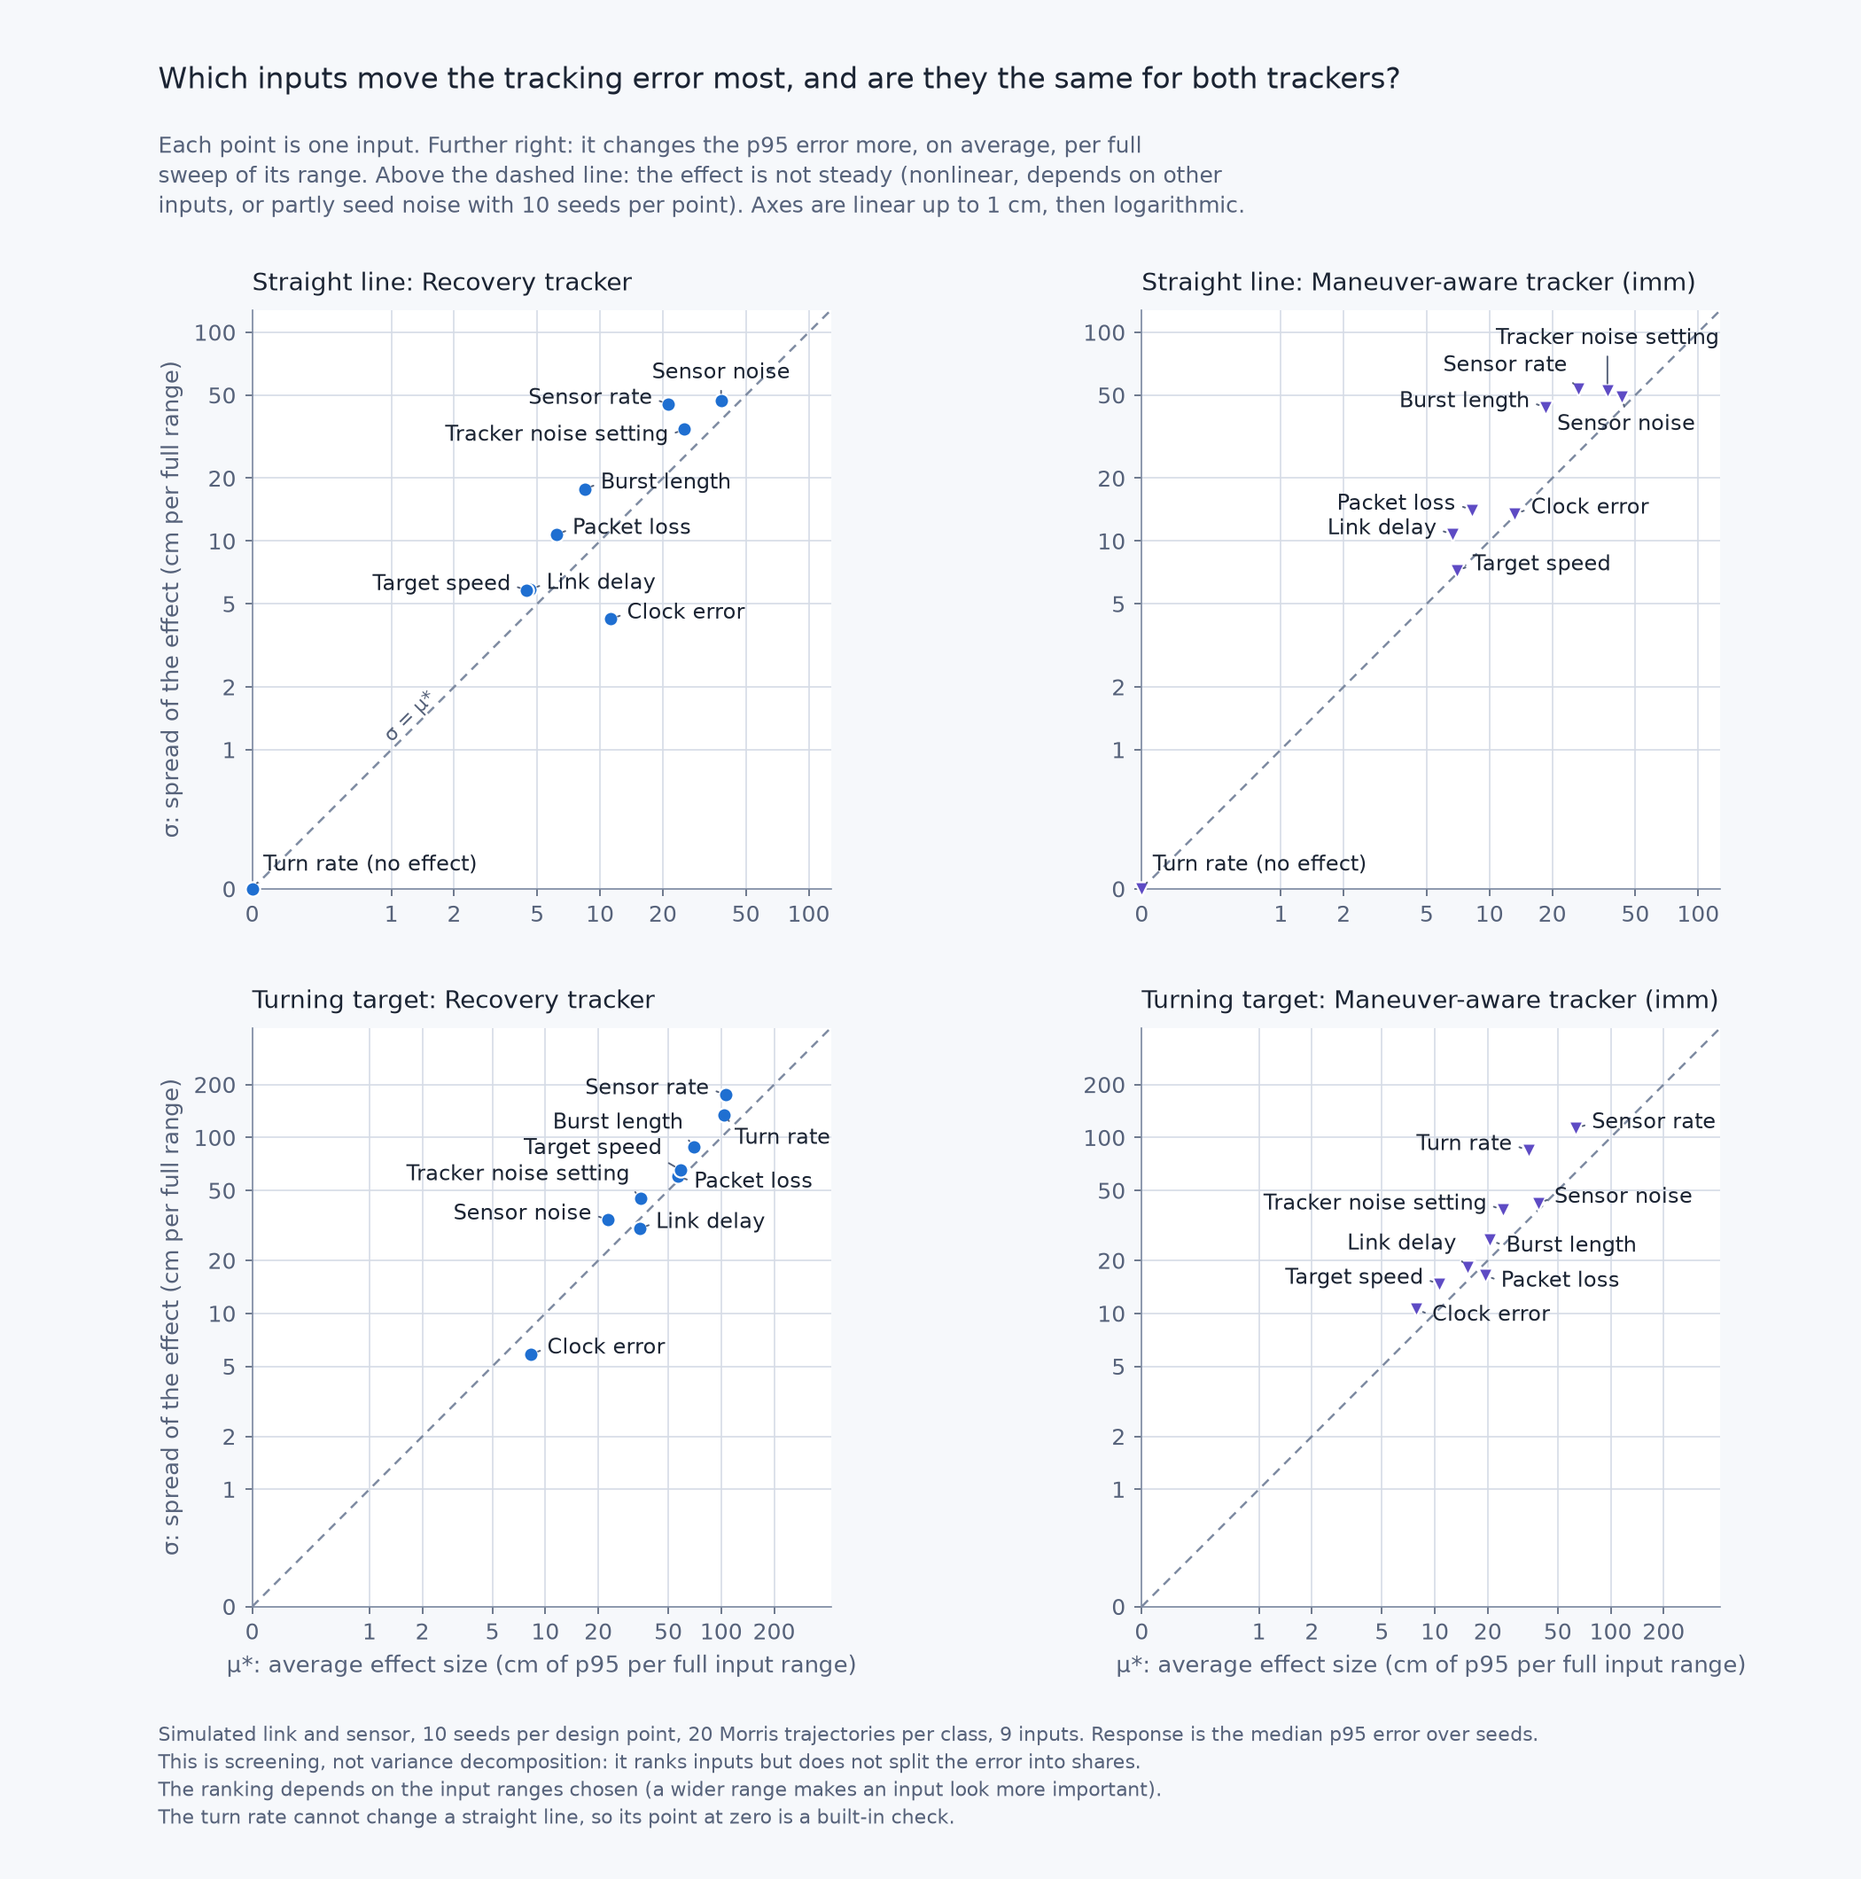
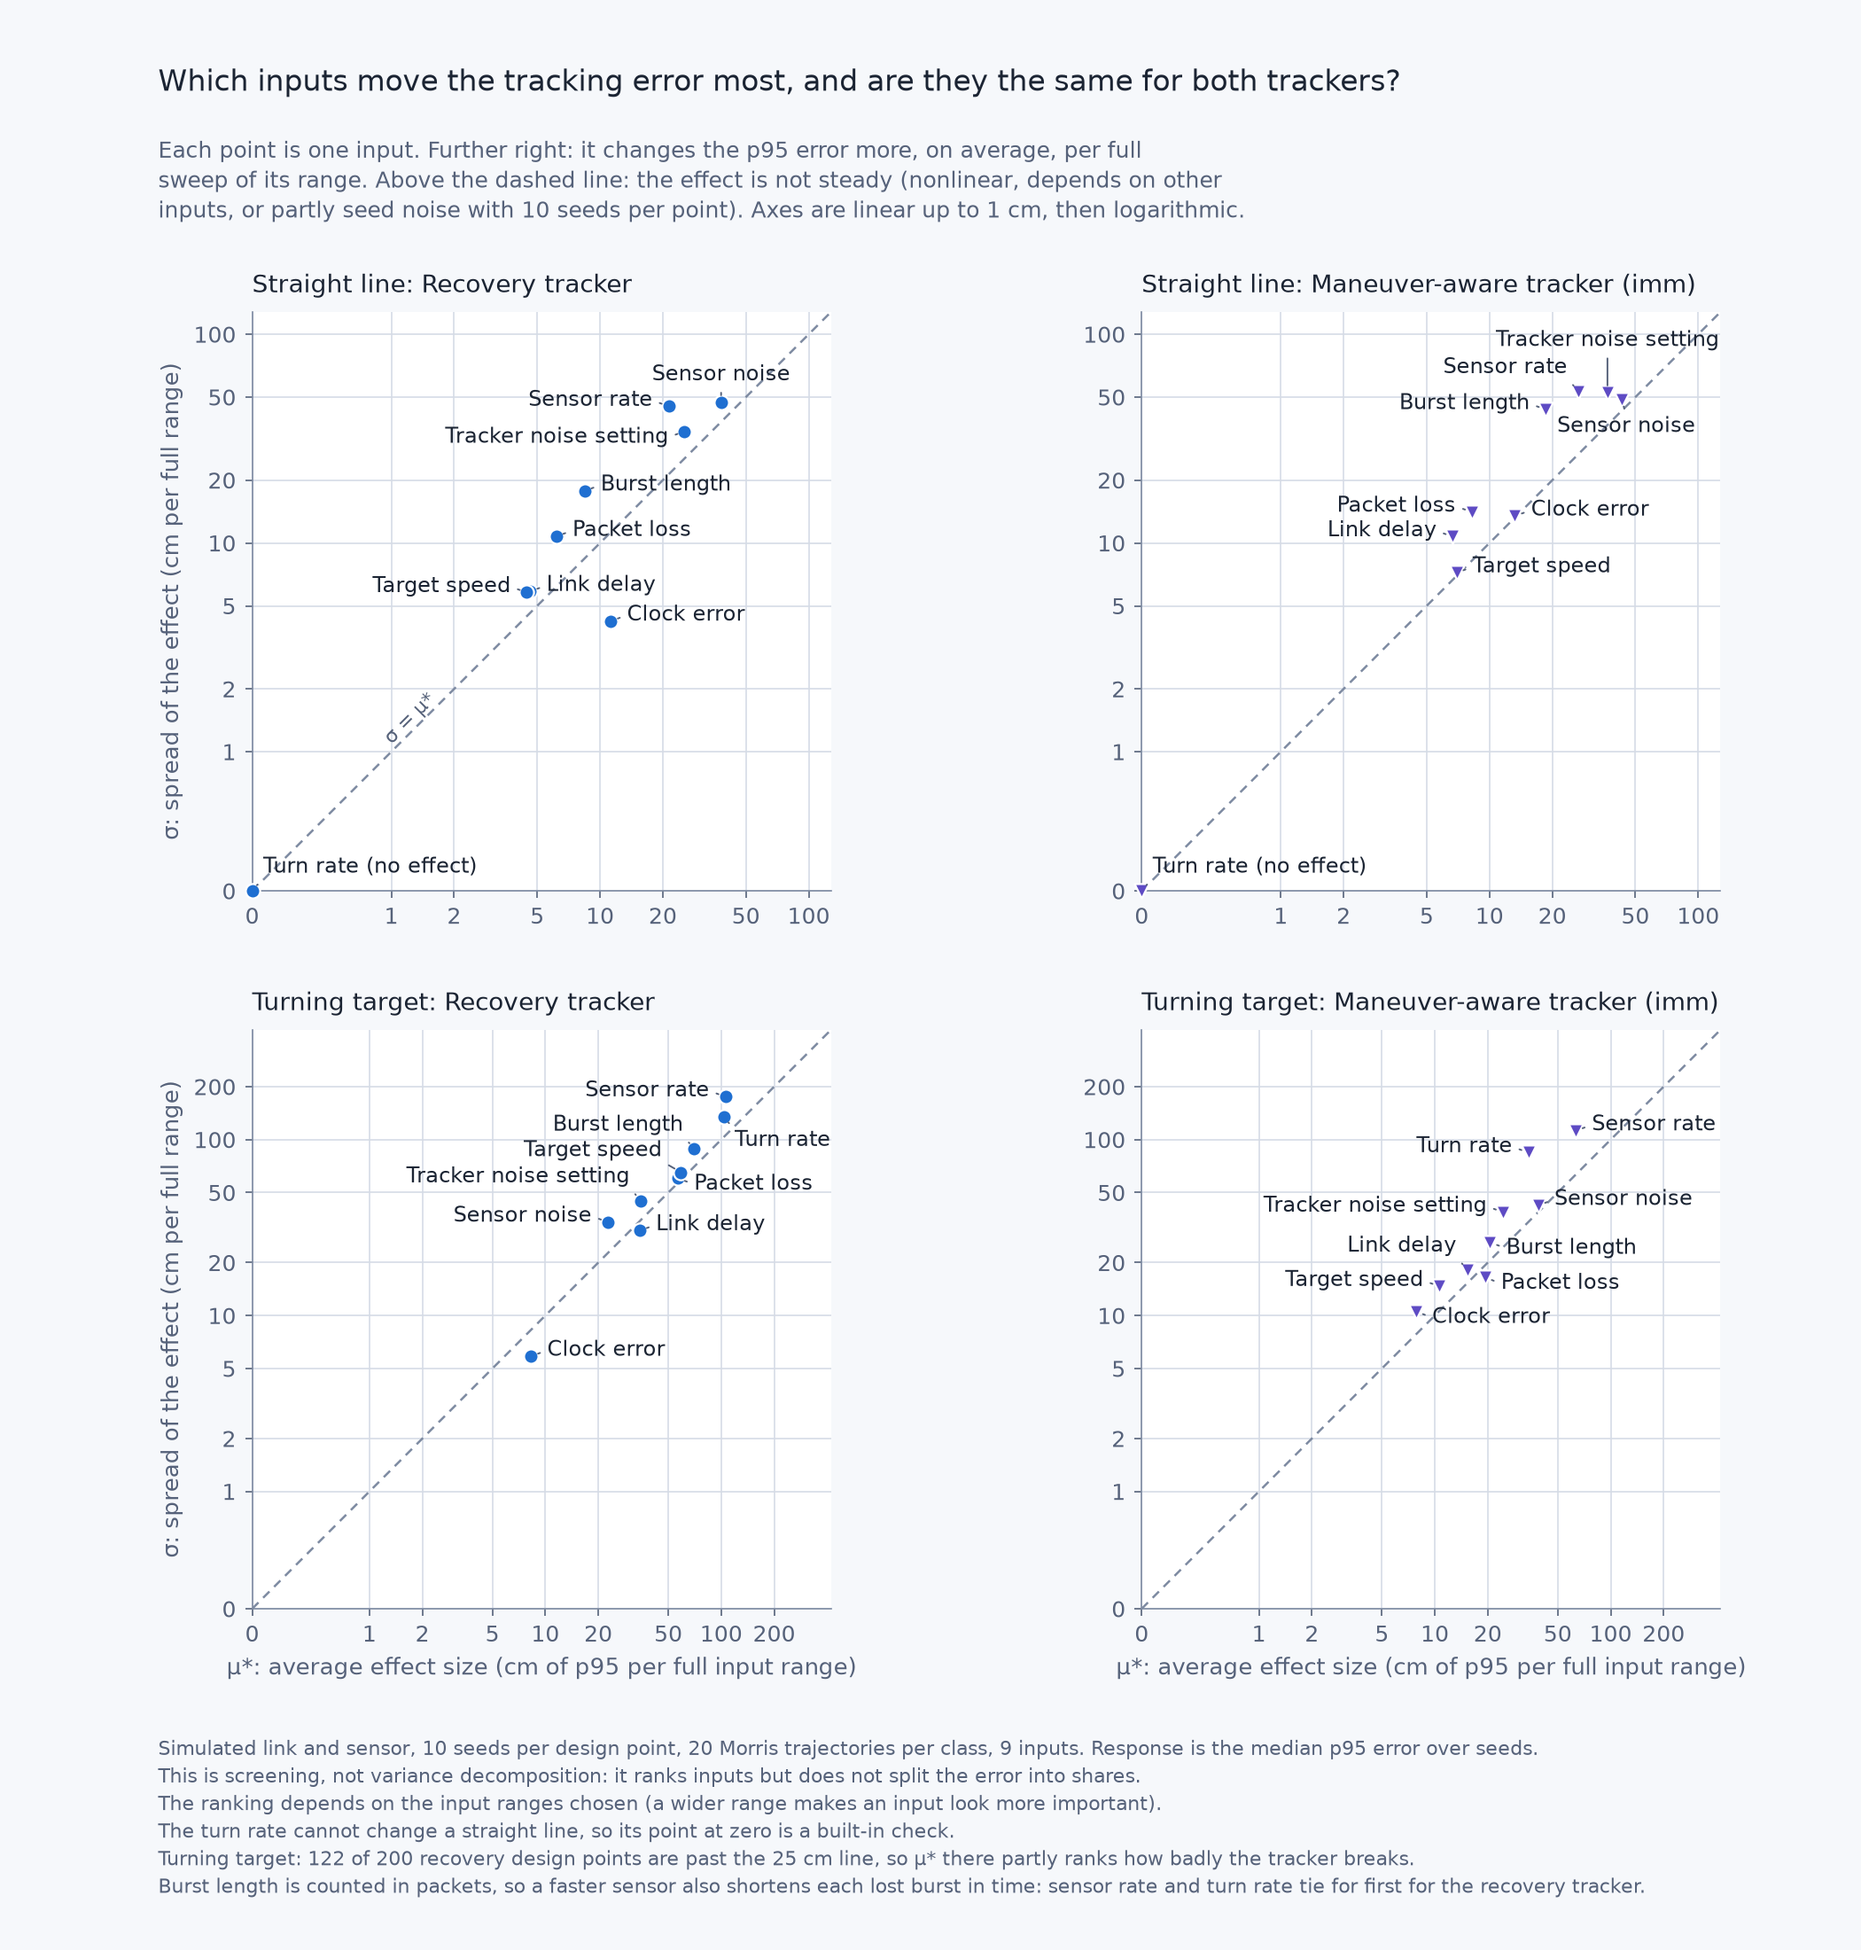
State the burst-length confound on the sensitivity figure and the plotted statistic on the clock-sync figure

diff --git a/tools/make_s6_sensitivity_figure.py b/tools/make_s6_sensitivity_figure.py
@@ -69,6 +69,7 @@ INPUT_LABELS = {
     "tuning_error": "Tracker noise setting",
 }
 DPI = 200
+FAIL_P95_M = 0.25  # failure line on the p95 error (m)
 
 
 class FigureError(Exception):
@@ -318,8 +319,8 @@ def build_morris_figure(run: dict, pal: dict, colors: dict):
                 if p["x"] == 0.0 and p["y"] == 0.0:
                     p["label"] += " (no effect)"
             data[(cls, arm)] = pts
-    fig = plt.figure(figsize=(10.5, 10.6), dpi=DPI)
-    gs = fig.add_gridspec(2, 2, left=0.085, right=0.975, top=0.835, bottom=0.145,
+    fig = plt.figure(figsize=(10.5, 11.0), dpi=DPI)
+    gs = fig.add_gridspec(2, 2, left=0.085, right=0.975, top=0.84, bottom=0.175,
                           wspace=0.16, hspace=0.24)
     for r, (cls, _case) in enumerate(CLASSES):
         # One scale per row so both trackers can be compared; square axes so the
@@ -347,6 +348,8 @@ def build_morris_figure(run: dict, pal: dict, colors: dict):
              fontsize=9, color=pal["textSecondary"], ha="left", va="top", linespacing=1.35)
     seeds = n_seeds(run)
     traj = morris["design"]["r"]
+    turn_resp = [v for row in morris["classes"]["turn"]["responses"]["recovery"] for v in row]
+    over = sum(1 for v in turn_resp if v > FAIL_P95_M)
     fig.text(
         0.085, 0.025,
         "Simulated link and sensor, "
@@ -356,7 +359,11 @@ def build_morris_figure(run: dict, pal: dict, colors: dict):
         "error into shares.\n"
         "The ranking depends on the input ranges chosen (a wider range makes an input look more "
         "important).\n"
-        "The turn rate cannot change a straight line, so its point at zero is a built-in check.",
+        "The turn rate cannot change a straight line, so its point at zero is a built-in check.\n"
+        f"Turning target: {over} of {len(turn_resp)} recovery design points are past the 25 cm line, so μ* there "
+        "partly ranks how badly the tracker breaks.\n"
+        "Burst length is counted in packets, so a faster sensor also shortens each lost burst in time: sensor rate "
+        "and turn rate tie for first for the recovery tracker.",
         fontsize=8, color=pal["textSecondary"], ha="left", va="bottom", linespacing=1.4)
     return fig
 

diff --git a/tools/make_s6_clocks_figure.py b/tools/make_s6_clocks_figure.py
@@ -139,9 +139,10 @@ def ms(value_s: float) -> float:
     return round(value_s * 1000.0, 6)
 
 
-def footnote(n_seeds: int, failure_shown: bool, extra: str = "") -> str:
-    text = (f"Simulated link and sensor, {n_seeds} seeds per cell, median p95 with 95 % "
-            "interval.")
+def footnote(n_seeds: int, failure_shown: bool, extra: str = "",
+             statistic: str = "median p95 with 95 % interval") -> str:
+    text = (f"Simulated link and sensor, 5 cm sensor noise, target at 1 m/s, {n_seeds} seeds "
+            f"per cell, {statistic}.")
     if extra:
         text += " " + extra
     if failure_shown:
@@ -526,7 +527,7 @@ def make_sync_figure(doc, u_cells, n_cells, per_seed, noise, pal, path):
              fontsize=9, color=pal["textSecondary"], ha="left", va="top", linespacing=1.35)
     sync_legends(fig, pal, colors, asyms, syncloss, ref_shown=True, y=1.6 / height)
     fig.text(0.12, 0.28 / height, footnote(
-        n_seeds, False, "Points are the median of paired per-seed differences."),
+        n_seeds, False, statistic="median of the paired per-seed p95 differences with 95 % interval"),
         fontsize=8, color=pal["textSecondary"], ha="left", va="bottom", linespacing=1.4)
     save(fig, path)
 
